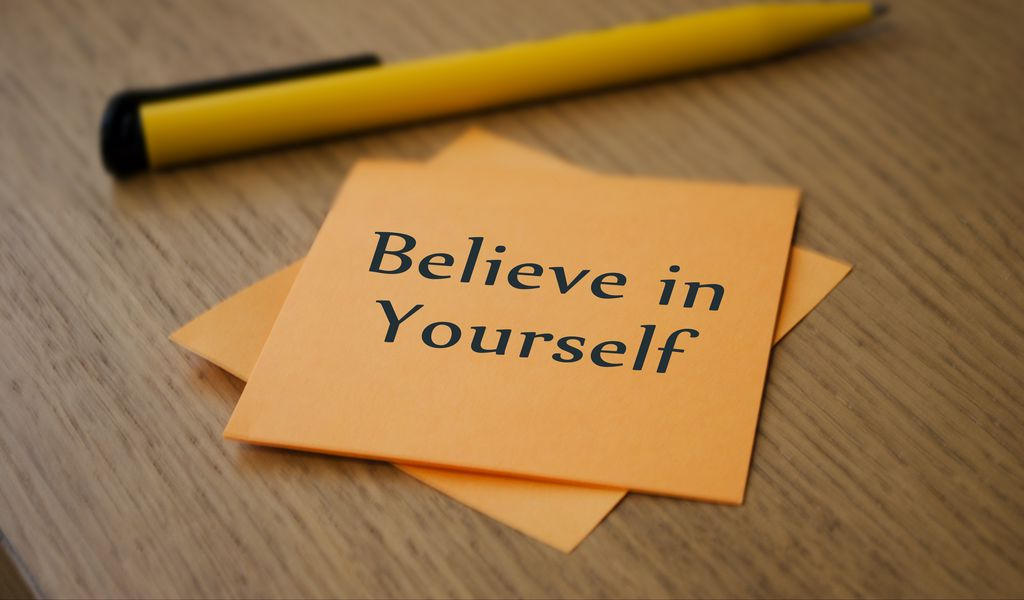
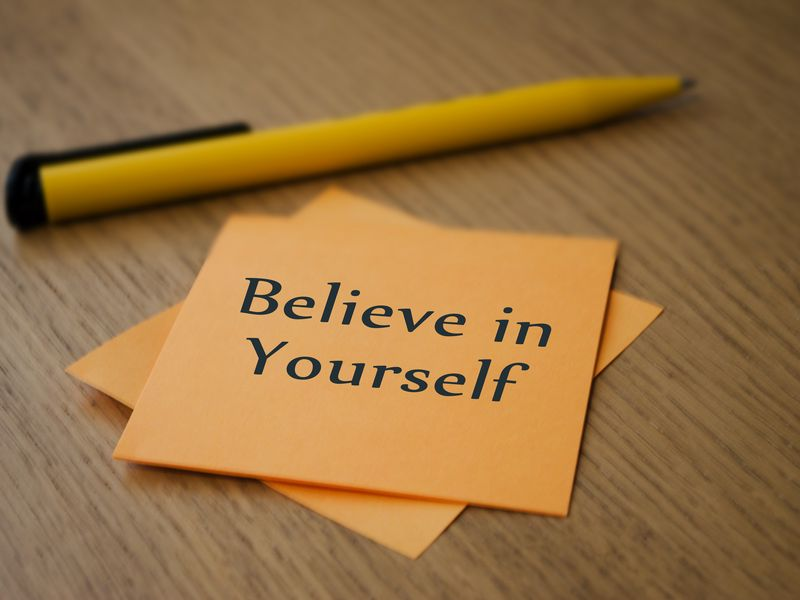
fix: change size image

diff --git a/src/components/split/Split.tsx b/src/components/split/Split.tsx
@@ -80,12 +80,14 @@ const Split = ({left, right}: SplitProps) => {
         <div
             className={styles.right}
             ref={ref}
-            style={{background: `url(${right})`}}
+            style={{background: `url(${right})`, backgroundSize: 'contain'}}
         >
             <div
                 className={styles.left}
                 style={{background: `url(${left})`,
-                    clipPath: `polygon(0% 0%, ${widthLeft}px 0%, ${widthLeft}px 100%, 0% 100%)`}}
+                    clipPath: `polygon(0% 0%, ${widthLeft}px 0%, ${widthLeft}px 100%, 0% 100%)`,
+                    backgroundSize: 'contain'
+                }}
             />
             <div
                 style={{left: lineX}}

diff --git a/src/components/split/split.module.css b/src/components/split/split.module.css
@@ -1,6 +1,6 @@
 .left {
     width: 100%;
-    height: 600px;
+    height: 300px;
     position: absolute;
     z-index: 1;
     background-position: center;
@@ -9,8 +9,8 @@
 }
 
 .right {
-    width: 100%;
-    height: 600px;
+    width: 47%;
+    height: 300px;
     max-width: 1000px;
     position: relative;
     background-position: center;
@@ -27,4 +27,10 @@
     position: absolute;
     z-index: 2;
     cursor: pointer;
+}
+
+@media (max-width: 414px) {
+    .left, .right {
+        height: 147px
+    }
 }

diff --git a/src/App.css b/src/App.css
@@ -1,5 +1,5 @@
 .App {
-  margin-top: 100px;
+  margin: 50px 0;
   display: flex;
   justify-content: center;
   align-items: center;
